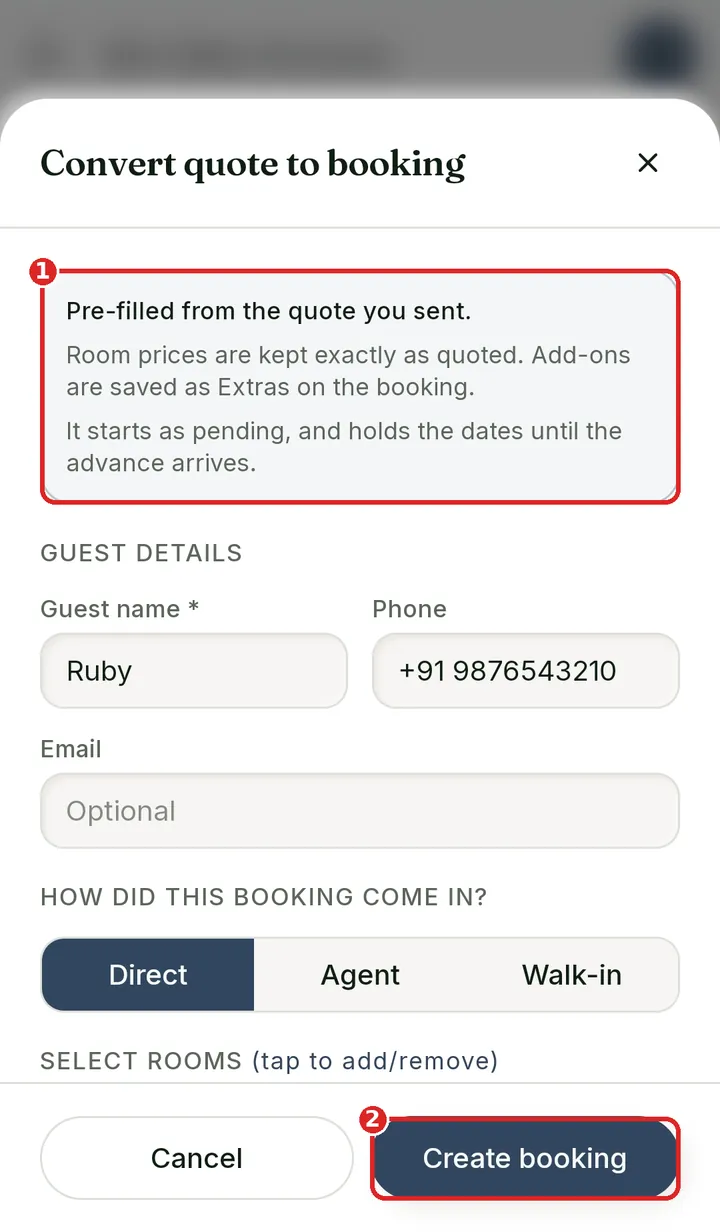
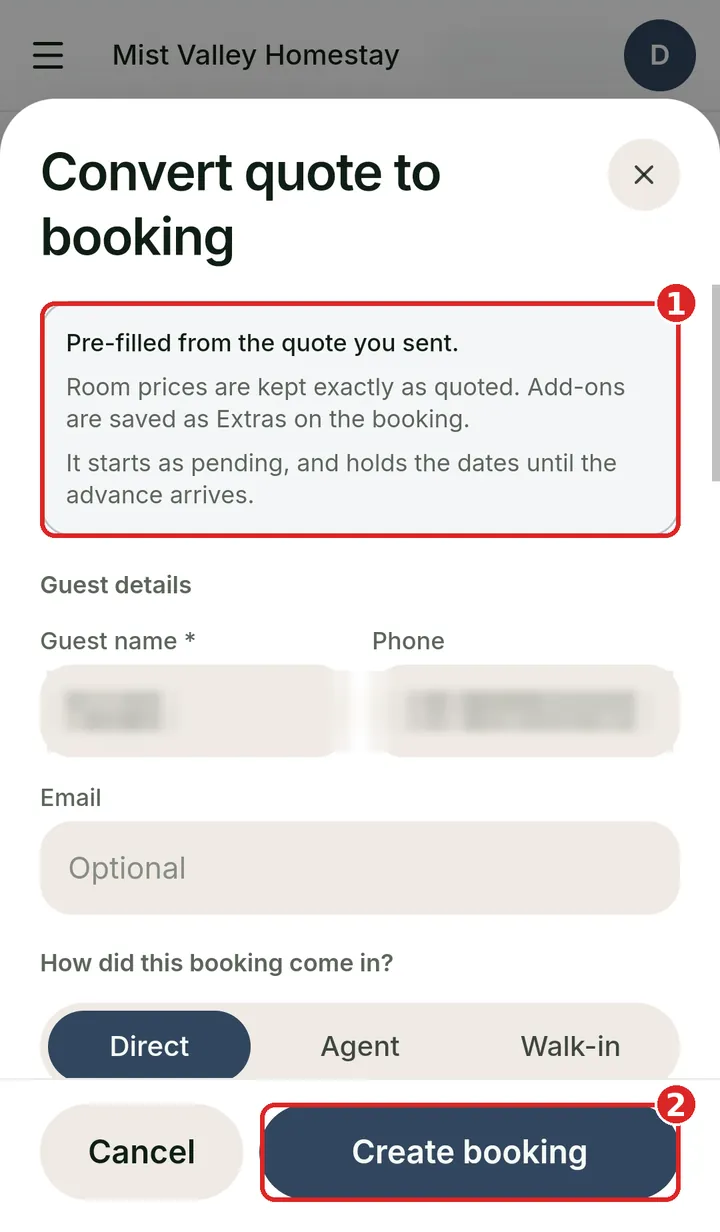
Help: retake the last 5 screenshots in the new look (01, 02, 04, 21, 26)
All help screenshots now show the new owner-side look. Guest name and phone are
pixelated in 21. Captions for 04 and 26 now match what the screenshots show.

Claude-Session: https://claude.ai/code/session_01ANTkJnHQ4HU6pbchg7EXCM

diff --git a/src/content/ownerGuide.ts b/src/content/ownerGuide.ts
@@ -256,7 +256,7 @@ export const SITUATIONS: GuideSection[] = [
           "Open the **Invoice** tab if the guest wants a printed copy.",
         ],
       },
-      shot("26-charges-tab.webp", "Charges tab with the catalog dropdown, option, people and Add to extras button", "**1** Choose an item from your catalog. **2** Choose its option. **3** Set the number of people. **4** Tap Add to extras."),
+      shot("26-charges-tab.webp", "Charges tab with the catalog dropdown and the box for your own charge", "**1** Choose an add-on or package from your catalog. Once you pick one, its **Option** (if it has one), **People** or **Qty**, and **Add to extras** appear. **2** Or add your own charge: a description, a number, a price, then **Add**."),
       shot("28-checkout-summary.webp", "A completed booking with its payment summary showing Fully paid", "**1** The Charges tab shows a number when extras were added. **2** The payment summary. **3** **Fully paid** means nothing is left to collect."),
       shot("11-money-payments-summary.webp", "Money page showing the Payments tab and the monthly summary chart", "**1** Money has two tabs: Payments and Agents & Commissions. **2** Each month shows what you collected (dark) and what is still outstanding (red). **3** Tap **View … in the list →** to see each booking and its balance."),
       { type: "note", label: "Mistake in an amount?", text: "On the **Payments** page, find the booking and tap the **pencil** button (**Correct collected amount**) on its row. Enter the right figure." },
@@ -322,7 +322,7 @@ export const SETUP: GuideSection[] = [
         ],
       },
       { type: "p", text: "A **Price preview** shows a weekday and a weekend night so you can check before saving." },
-      shot("04-room-pricing.webp", "Room pricing fields with the price preview", "**1** Base price (Sunday to Thursday). **2** Extra guest charge. **3** Weekend multiplier. **4** Price preview."),
+      shot("04-room-pricing.webp", "Room editor showing the weekend multiplier, the price preview and the Season prices note", "**1** **Weekend multiplier (Fri – Sat)**. **2** **Price preview**: a weekday night, a weekend night and the extra guest charge. **3** **Season prices** shows whether a season changes this room. Change seasons in **Seasons**, at the top of the page. (**Base price** and **Extra guest charge** sit just above these.)"),
       { type: "p", text: "**Seasons** change prices for set dates, such as Christmas or April–May. You set them once, at the top of **Rooms & Pricing**: tap **Add season**, name it, pick the dates (the last night is included) and tick **Repeats every year** if the dates never move. Then choose what changes: on the season, **Room prices** can be **% change on base price** (30 for 30% higher, −20 for 20% lower) or **Fixed ₹ per night**, for **All rooms** or for one room. A room's editor shows its season prices, and **Change season prices** takes you back to Seasons." },
       shot("32-seasons-card.webp", "Rooms and Pricing page with the Seasons box and a New Year season showing Room prices and Add-ons and packages", "**1** A season shows its name and dates. Use the pencil to edit it. **2** **Room prices**: this season adds 20% to Misty Ridge Room. **3** **Add or change a room price**. **4** **Add-ons & packages** can have their own price for the season."),
       {

diff --git a/docs/OWNER_HELP.md b/docs/OWNER_HELP.md
@@ -91,6 +91,8 @@ All are 720 px wide WebP (about 30–50 KB), phone screenshots of the **demo pro
 
 > **11 Nov 2026: every screenshot is now out of date.** The owner side got a new look (soft flat cards, round buttons, one dialog style, avatar list on Payments, flat Calendar, pill navigation; see HANDOVER §10 item 50). Names and steps in the text are still right (the one wording change: Payments now says **View … in the list →**), but retake all screenshots in one session on the demo property so the guide looks consistent. Order of value: Home, Booking, Payments, Calendar, Block dates, Rooms editor, Settings.
 
+> **13 Nov 2026 (batch 4): the last 5 screenshots retaken. No screenshot is in the old look now.** `01` (a pending request on Home), `02` (Confirm and Record advance payment), `04` (room editor: weekend multiplier, price preview, **Season prices** note), `21` (Convert quote to booking, guest name and phone pixelated), `26` (Charges tab). Caption changes: `04` now shows Weekend multiplier, Price preview and Season prices (Base price and Extra guest charge are just above, described in the table); `26` shows the catalog dropdown unopened, so the Option / People / Add to extras boxes are described in the caption, not shown. Possible later improvement: a `26` with an item chosen so those boxes show.
+
 > **13 Nov 2026 (batch 3): 9 more screenshots retaken, 5 still old.** Retaken: `03`, `07`, `08`, `14`, `24`, `30`, plus three stitched from two phone shots each because the page scrolls: `09` (rooms + add-ons, 720 x 1679), `10` (discount + Send on WhatsApp, 720 x 1423), `19` (package form top + Includes, 720 x 1335). `shot()` now takes an optional height (default 1232) for these taller images. Guest names and phone numbers in `07`, `08`, `30` are pixelated. The `30` caption changed: **Send confirmation** at the top of the booking is now in the text, not a numbered box.
 > **Still the old look (5):** `01` (needs a pending request on Home), `02` (needs a pending booking showing Confirm and Record advance payment), `04` (room pricing section), `21` (the pre-filled convert form), `26` (Charges tab with **Add from your catalog**, Option, People and **Add to extras** visible; the batch-3 shot only showed the custom-charge form and an added item, so it did not match the caption).
 
